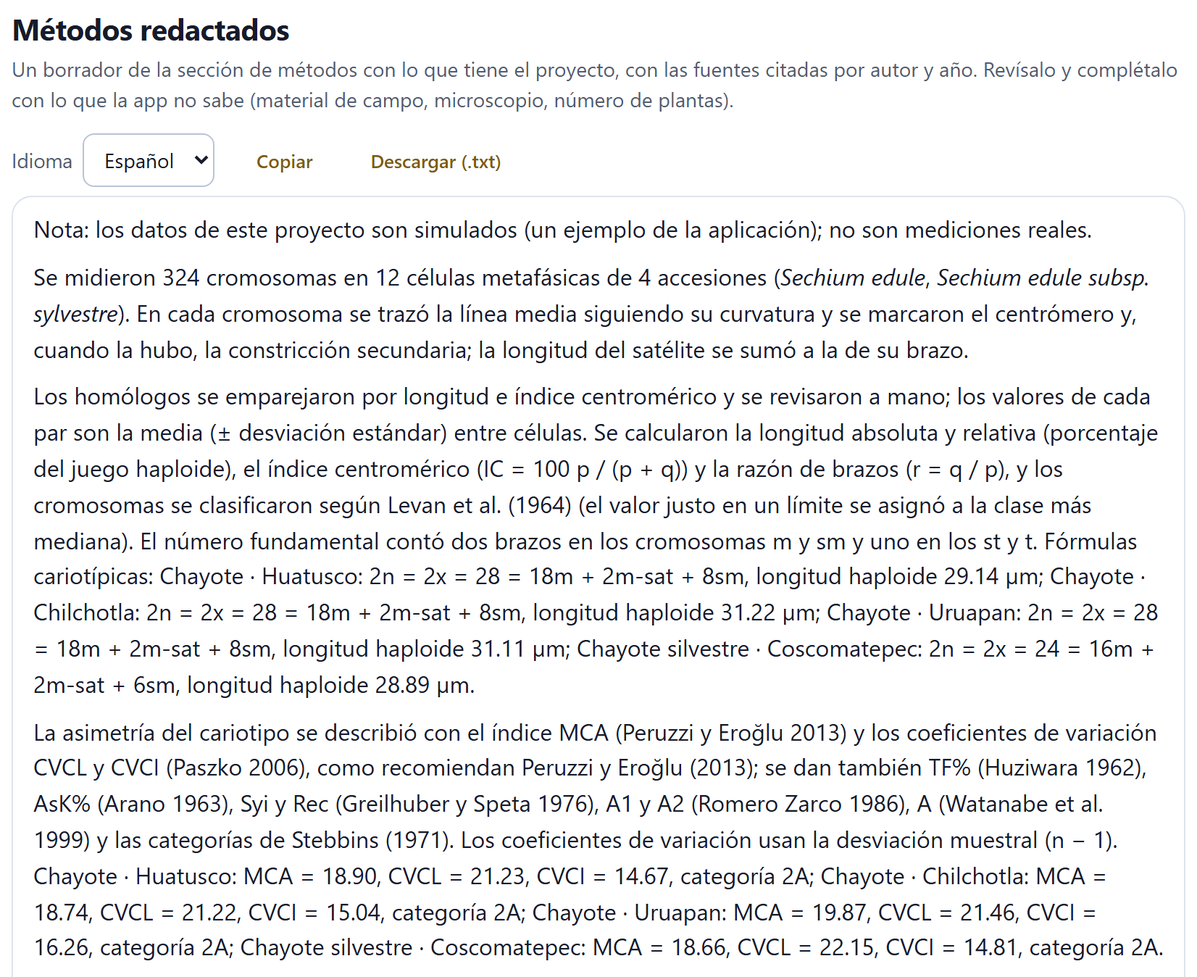
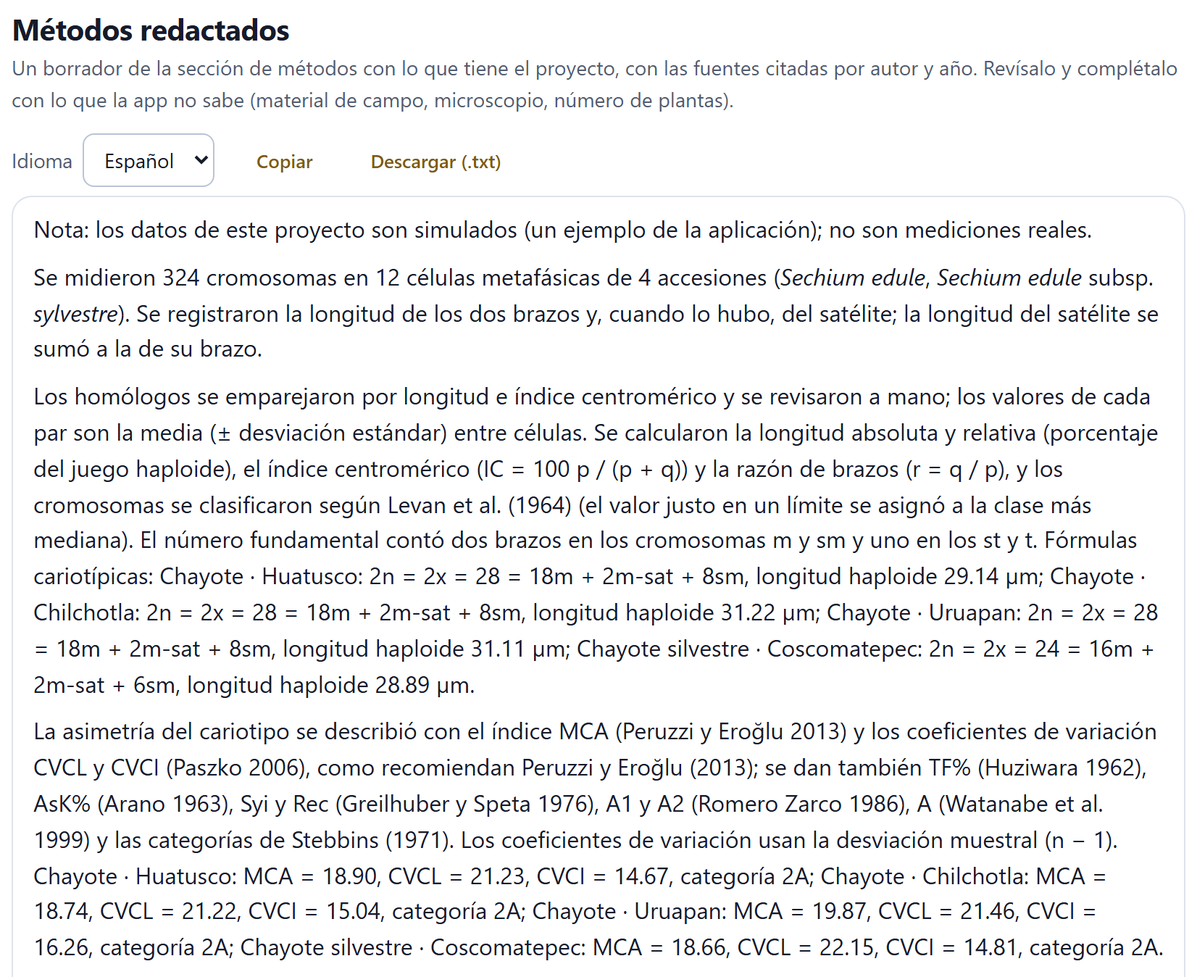
Manual: capítulos 9 y 10 y apéndices al día con la app corregida (46d3cd0)
Capturas retomadas (borde ámbar punteado, hoja de práctica, ayuda de Figuras,
cariograma con su título, métodos, tablas) y una nueva con las tablas de la serie
poliploide; textos de «Filas incompletas», PalynoPro, CSV con taxón y unidad y
avisos nuevos en los apéndices.

diff --git a/manual/es/11-apendices.html b/manual/es/11-apendices.html
@@ -44,9 +44,9 @@
     <tbody>
       <tr><td><b>Proyecto</b></td><td><span class="ui">Abrir un proyecto</span> (portada, Bloque 2, <code>Ctrl + O</code>) · <code>.json</code></td><td>Un archivo escrito por la app, con <code>"app": "CytogeneticsPro"</code>; cualquier otro JSON se rechaza. Reemplaza el proyecto abierto y recalcula todo.</td></tr>
       <tr><td><b>Imágenes</b></td><td>Bloque 2 · <code>.png</code>, <code>.jpg</code>, <code>.jpeg</code></td><td>Varias a la vez; cada imagen es una célula nueva de la accesión elegida (o de una nueva). Avisa si una pesa más de 25 MB. Se guardan dentro del proyecto.</td></tr>
-      <tr><td><b>Medidas</b></td><td>Bloque 2, <span class="ui">Pegar medidas</span> · texto pegado</td><td>Una fila por cromosoma, en micras; columnas por nombre o por número (abajo).</td></tr>
+      <tr><td><b>Medidas</b></td><td>Bloque 2, <span class="ui">Pegar medidas</span> · texto pegado</td><td>Una fila por cromosoma, en micras; columnas por nombre o por número (abajo). El CSV de mediciones que escribe el propio bloque vuelve a entrar completo, con su taxón y su unidad.</td></tr>
       <tr><td><b>Tablas de registro</b></td><td>Bloques 5 a 8, <span class="ui">Importar CSV</span> o pegar sobre la tabla</td><td>Un CSV con encabezados: cada encabezado se busca entre las claves, los nombres en español y en inglés y los alias de las columnas, sin distinguir acentos, mayúsculas ni signos. Un bloque copiado de una hoja de cálculo se pega sobre la celda activa y añade las filas que falten.</td></tr>
-      <tr><td><b>Fertilidad del polen</b></td><td>Bloque 5 · <code>.csv</code></td><td>El CSV de la app de palinología de la suite, con las columnas <code>landrace_code</code>, <code>n_granos_completos</code> y <code>pct_atipico</code>; los inviables se calculan como n × % / 100, redondeado.</td></tr>
+      <tr><td><b>Fertilidad del polen</b></td><td>Bloque 5 · <code>.csv</code></td><td>El CSV de PalynoPro, la app de palinología de la suite, con las columnas <code>landrace_code</code>, <code>n_granos_completos</code> y <code>pct_atipico</code>; los inviables se calculan como n × % / 100, redondeado.</td></tr>
       <tr><td><b>Histograma del citómetro</b></td><td>Bloque 6 · <code>.csv</code>, <code>.tsv</code>, <code>.txt</code></td><td>Dos columnas (canal, número de núcleos) o una columna de valores de cada evento, que la app agrupa en 512 clases; con encabezado o sin él.</td></tr>
       <tr><td><b>Árbol</b></td><td>Bloque 8 · <code>.nwk</code>, <code>.newick</code>, <code>.tre</code>, <code>.tree</code>, <code>.txt</code>, o pegado</td><td>Newick, con nombres entre apóstrofos y longitudes de rama (que se ignoran en la parsimonia); los comentarios entre corchetes se quitan. De un archivo NEXUS toma el primer árbol del bloque <code>TREES</code>. Las puntas se emparejan por nombre con las accesiones y los taxones.</td></tr>
       <tr><td><b>Contorno del mapa</b></td><td>Bloque 8 · <code>.geojson</code>, <code>.json</code></td><td>Un GeoJSON de tipo <code>FeatureCollection</code>, <code>Feature</code>, <code>Polygon</code>, <code>MultiPolygon</code>, <code>LineString</code>, <code>MultiLineString</code> o <code>GeometryCollection</code>, en longitud y latitud.</td></tr>
@@ -65,16 +65,19 @@
   <table class="compacta">
     <thead><tr><th style="width:1.4in">Columna</th><th>Encabezados que la nombran</th></tr></thead>
     <tbody>
-      <tr><td>Accesión</td><td>acc, accesión, accession, muestra, sample, población, population, taxón, taxon</td></tr>
+      <tr><td>Accesión</td><td>acc, accesión, accession, muestra, sample, población, population</td></tr>
+      <tr><td>Taxón</td><td>taxón, taxon, especie, species</td></tr>
       <tr><td>Célula</td><td>cél…, cell, placa, plate, metafase, metaphase</td></tr>
       <tr><td>Cromosoma</td><td>crom…, chrom…, núm…, no., #, id</td></tr>
       <tr><td>Brazo corto (p)</td><td>p, s, corto, short, brazo corto, short arm</td></tr>
       <tr><td>Brazo largo (q)</td><td>q, l, largo, long, brazo largo, long arm</td></tr>
       <tr><td>Satélite</td><td>satélite, satellite, sat</td></tr>
       <tr><td>Brazo del satélite</td><td>brazo…sat, sat…brazo o sat…arm, arm, brazo</td></tr>
+      <tr><td>Unidad</td><td>unidad, unit</td></tr>
     </tbody>
   </table>
-  <p>Sin encabezado, las columnas se leen por su número: 2 columnas, <b>p q</b> (una célula nueva); 3, <b>cromosoma p q</b>; 4, <b>célula cromosoma p q</b>; 5 a 7, <b>accesión célula cromosoma p q [satélite] [brazo]</b>. Una fila sin un número válido para p (≥ 0) y para q (&gt; 0) se salta, y el mensaje dice cuáles. Un satélite va en el brazo q si la columna del brazo dice q, l, largo o long; si no, en el p. Las accesiones que no existen se crean con el nombre que trae la columna.</p>
+  <p>Sin encabezado, las columnas se leen por su número: 2 columnas, <b>p q</b> (una célula nueva); 3, <b>cromosoma p q</b>; 4, <b>célula cromosoma p q</b>; 5 a 7, <b>accesión célula cromosoma p q [satélite] [brazo]</b>. Una fila sin un número válido para p (≥ 0) y para q (&gt; 0) se salta, y el mensaje dice cuáles. Un satélite va en el brazo q si la columna del brazo dice q, l, largo o long; si no, en el p. Las accesiones que no existen se crean con el nombre que trae la columna; si la tabla tiene taxón pero no accesión, se crea una accesión por taxón, y el taxón se anota en la accesión. Las filas sin accesión ni taxón van a la accesión elegida, y sólo si hace falta se crea una nueva: pegar una tabla que nombra sus accesiones no deja una «Accesión 1» vacía. Una célula cuya columna de unidad dice <i>px</i> (una célula sin calibrar exportada antes) se queda en píxeles, y el mensaje lo avisa: «Una célula viene en píxeles (sin calibrar).».</p>
+  <p>Así, el archivo <code>mediciones.csv</code> que escribe el Bloque 2 (accesión, taxón, célula, cromosoma, p, q, satélite, brazo del satélite, unidad, origen) se puede pegar de vuelta sin perder nada; la columna <i>origen</i> se ignora.</p>
   <pre class="archivo">accesión;célula;cromosoma;p;q;satélite;brazo
 Huatusco;C1;1;1,42;1,66;0,38;p
 Huatusco;C1;2;1,35;1,52;;
@@ -89,7 +92,7 @@ Huatusco;C1;3;0,98;1,95;;</pre>
       <tr><td><span class="chip k2">2</span></td><td><code>&lt;accesión&gt;_&lt;célula&gt;_anotada.png</code></td><td>La imagen con las marcas de conteo y los trazos.</td></tr>
       <tr><td><span class="chip k3">3</span></td><td><code>cariotipo_&lt;accesión&gt;.csv</code> · <code>.tsv</code> · <code>cariotipos.csv</code></td><td>El cariotipo de una accesión o de todas, un renglón por par.</td></tr>
       <tr><td><span class="chip k4">4</span></td><td><code>indices_asimetria.csv</code> · <code>.tsv</code></td><td>Los índices de todas las accesiones, con sus desviaciones si se calcularon célula por célula.</td></tr>
-      <tr><td><span class="chip k5">5</span></td><td><code>configuraciones_</code>, <code>fases_</code>, <code>tetradas_</code>, <code>polen_&lt;accesión&gt;.csv</code> · <code>polen_&lt;accesión&gt;_polenapp.csv</code></td><td>Las tablas de registro de la meiosis; la última, el polen con las columnas que lee la app de palinología.</td></tr>
+      <tr><td><span class="chip k5">5</span></td><td><code>configuraciones_</code>, <code>fases_</code>, <code>tetradas_</code>, <code>polen_&lt;accesión&gt;.csv</code> · <code>polen_&lt;accesión&gt;_palynopro.csv</code></td><td>Las tablas de registro de la meiosis; la última, el polen con las columnas de PalynoPro.</td></tr>
       <tr><td><span class="chip k6">6</span></td><td><code>conteos_</code>, <code>citometria_&lt;accesión&gt;.csv</code> · <code>prueba_allium.csv</code></td><td>Los conteos, las corridas del citómetro y la prueba de <i>Allium</i>.</td></tr>
       <tr><td><span class="chip k7">7</span></td><td><code>sondas.csv</code> · <code>senales_&lt;accesión&gt;.csv</code></td><td>Las sondas y bandas, y las señales de una accesión.</td></tr>
       <tr><td><span class="chip k8">8</span></td><td><code>otros_taxones.csv</code> · <code>dendrograma_upgma.nwk</code> o <code>_ward.nwk</code></td><td>Los taxones añadidos a mano y el dendrograma en Newick.</td></tr>
@@ -150,7 +153,7 @@ Huatusco;C1;3;0,98;1,95;;</pre>
     <tbody>
       <tr><td style="width:2.1in"><b>Número cromosómico</b></td><td>La moda de las células contadas; con más de una moda, la app pide contar más células. Si la moda no es múltiplo de x, avisa: aneuploidía, cromosomas B o disploidía.</td></tr>
       <tr><td><b>Citometría de flujo</b></td><td>2C = (canal G1 de la muestra / canal G1 del estándar) × 2C del estándar; 1C = 2C / 2; 1Cx = 2C / nivel de ploidía; 1 pg = 978 Mpb.</td></tr>
-      <tr><td><b>Calidad de los picos</b></td><td>Avisa si algún pico tiene un CV mayor de 5&nbsp;% o si la razón muestra / estándar está entre 0.85 y 1.18 (los picos se enciman).</td></tr>
+      <tr><td><b>Calidad de los picos</b></td><td>Avisa si algún pico tiene un CV mayor de 5&nbsp;%, si la razón muestra / estándar está entre 0.85 y 1.18 (los picos se enciman) o si es mayor de 3 o menor de 1/3 (la respuesta del citómetro puede dejar de ser lineal).</td></tr>
       <tr><td><b>Prueba de <i>Allium</i></b></td><td>Cada tratamiento se compara con el testigo, con la corrección de Holm; un índice mitótico menor que la mitad del testigo es una señal fuerte de citotoxicidad.</td></tr>
     </tbody>
   </table>
@@ -158,13 +161,13 @@ Huatusco;C1;3;0,98;1,95;;</pre>
   <h3>B.5 · Bandeo y FISH (Bloque 7)</h3>
   <ul>
     <li><b>Posición en el brazo</b>, del centrómero (0) al telómero (1): proximal &lt; 1/3; intersticial de 1/3 a 0.8; terminal &gt; 0.8.</li>
-    <li><b>Sitios por juego.</b> Un sitio en los dos homólogos cuenta uno; en uno solo, medio (y se cuenta como heteromorfismo).</li>
+    <li><b>Sitios por juego.</b> Un sitio en los dos homólogos cuenta uno; en uno solo, medio (y se cuenta como heteromorfismo), con el mismo criterio en el patrón de la accesión y sus regiones, en la tabla de todas las accesiones y en la matriz de la comparación.</li>
   </ul>
 
   <h3>B.6 · Comparación entre taxones (Bloque 8)</h3>
   <ul>
     <li><b>Mínimos.</b> Al menos una variable y tres accesiones o taxones con datos; el análisis de componentes necesita al menos dos variables que varíen.</li>
-    <li><b>Datos faltantes.</b> La distancia de Gower y la euclidiana usan, en cada pareja, las variables que ambas tienen (la euclidiana se reescala al total); si una pareja no comparte ninguna, el análisis se detiene. Los componentes ponen las celdas vacías en la media.</li>
+    <li><b>Filas incompletas.</b> Por omisión, <span class="ui">Fuera (sólo filas con todas las variables)</span>: al agrupamiento y a los componentes sólo entran las filas con todas las variables elegidas; las demás siguen en la matriz, en el árbol de los números y en el mapa, y la app dice cuáles quedan fuera y qué les falta. <span class="ui">Todas, con las variables que tienen todas</span> usa sólo las variables comunes. <span class="ui">Todas; cada pareja con las variables que comparte</span> calcula la distancia de Gower o la euclidiana (reescalada al total) con lo que comparte cada pareja; avisa si alguna comparte la mitad de las variables o menos, y se detiene si una no comparte ninguna. Los componentes ponen las celdas vacías en la media.</li>
     <li><b>Ward</b> trabaja con las distancias al cuadrado y da las alturas en la escala de la distancia.</li>
     <li><b>Evolución del número.</b> Parsimonia de Sankoff con los costos de +1, −1, ×2 y ×1.5 que elijas (1, 1, 1 y 1.5 al abrir); un 2n impar no entra al análisis; hacen falta al menos dos puntas con número, y las demás se tratan como desconocidas.</li>
   </ul>
@@ -243,7 +246,8 @@ Huatusco;C1;3;0,98;1,95;;</pre>
       <tr><td>«Ninguna fila tenía dos números válidos para p y q.»</td><td>Las columnas no se reconocieron o tienen texto; revisa el encabezado o el separador (apéndice A.1).</td></tr>
       <tr><td>«El archivo no tenía columnas reconocibles.»</td><td>Ningún encabezado del CSV coincide con una columna de la tabla; usa los nombres que trae la tabla al exportarla.</td></tr>
       <tr><td colspan="2"><b>Medición y cariotipo (Bloques 2 y 3)</b></td></tr>
-      <tr><td>«… tiene … célula(s) con imagen sin calibrar: sus medidas están en píxeles.»</td><td>Calibra con la barra de escala para mezclarlas con las demás.</td></tr>
+      <tr><td>«… tiene una célula sin calibrar: sus medidas están en píxeles.» (o «… células sin calibrar…»)</td><td>Calibra con la barra de escala (o captura las medidas en micras) para mezclarlas con las demás.</td></tr>
+      <tr><td>«Una célula viene en píxeles (sin calibrar).» (al pegar medidas)</td><td>La columna de unidad decía px; la célula se queda en píxeles hasta que la calibres o captures sus medidas en micras.</td></tr>
       <tr><td>«En … no todas las células tienen el mismo número de cromosomas medidos (moda …).»</td><td>Falta o sobra algún cromosoma en alguna célula; el Bloque 3 agrupa lo que haya.</td></tr>
       <tr><td>«Esta accesión mezcla células calibradas (µm) y sin calibrar (píxeles).»</td><td>Las longitudes relativas valen; las absolutas no. Calibra todas en el Bloque 2.</td></tr>
       <tr><td>«Las células no tienen el mismo número de cromosomas (…).»</td><td>Revisa el emparejamiento de las células incompletas.</td></tr>
@@ -254,16 +258,20 @@ Huatusco;C1;3;0,98;1,95;;</pre>
       <tr><td>«Escribe el número básico x de la accesión para plantear las hipótesis.»</td><td>Sin x no hay fórmulas genómicas que probar.</td></tr>
       <tr><td>«La fórmula … con x = … da 2n = …, pero las células tienen ….»</td><td>La fórmula no corresponde al número de las células; corrígela.</td></tr>
       <tr><td>«Ninguna hipótesis se ajusta (la mejor: …).» · «Más de una hipótesis se ajusta (…): hacen falta más células para decidir.»</td><td>Prueba otra fórmula o registra más células.</td></tr>
-      <tr><td>«El archivo no tiene las columnas de PolenApp (landrace_code, n_granos_completos, pct_atipico).»</td><td>El CSV no viene de la app de palinología; captura los granos en la tabla.</td></tr>
+      <tr><td>«El archivo no tiene las columnas de PalynoPro (landrace_code, n_granos_completos, pct_atipico).»</td><td>El CSV no viene de PalynoPro; captura los granos en la tabla.</td></tr>
       <tr><td>«Hay más de una moda: cuenta más células antes de decidir el número.»</td><td>Dos o más números empatan; cuenta más.</td></tr>
       <tr><td>«El número modal no es múltiplo de x = …»</td><td>Aneuploidía, cromosomas B o un número básico distinto.</td></tr>
       <tr><td>«…: algún pico tiene un CV mayor de 5 %.»</td><td>Repite la preparación: núcleos dañados o restos.</td></tr>
       <tr><td>«…: la muestra y el patrón casi coinciden (razón cercana a 1).»</td><td>Elige un patrón con un contenido más distinto.</td></tr>
+      <tr><td>«…: la muestra y el patrón difieren más de tres veces en su contenido de ADN.»</td><td>Tan lejos, la respuesta del citómetro puede dejar de ser lineal: elige un patrón de tamaño más cercano al de la muestra, sin que los picos se encimen.</td></tr>
       <tr><td>«No se encontraron números en el archivo.»</td><td>El CSV del citómetro no tiene columnas numéricas que la app reconozca (apéndice A.1).</td></tr>
       <tr><td>«Las compuertas elegidas están vacías.»</td><td>Ajusta los límites de las compuertas del histograma.</td></tr>
       <tr><td colspan="2"><b>Comparación (Bloque 8)</b></td></tr>
-      <tr><td>«Hacen falta al menos tres accesiones o taxones con datos para comparar.»</td><td>Añade taxones en <span class="ui">Otros taxones</span> o elige variables que tengan más filas.</td></tr>
-      <tr><td>«Estas parejas no comparten ninguna variable: …»</td><td>Quita variables o completa los datos.</td></tr>
+      <tr><td>«Sólo entran al agrupamiento y al ACP las filas con todas las variables elegidas. Quedan fuera … filas (…), a las que les falta …»</td><td>Es el ajuste de inicio de <span class="ui">Filas incompletas</span>. Para incluirlas, elige sólo las variables que tienen o cambia ese menú.</td></tr>
+      <tr><td>«Sólo se usan las variables que tienen todas las filas (…); quedan fuera ….» · «Ninguna de las variables elegidas está en todas las filas.»</td><td>Con <span class="ui">Todas, con las variables que tienen todas</span>; en el segundo caso, elige otras variables u otra opción.</td></tr>
+      <tr><td>«Algunas parejas comparten pocas variables: «…» y «…» sólo tienen en común … (… de …), y su distancia, …, sale sólo de esas.»</td><td>Con <span class="ui">Todas; cada pareja con las variables que comparte</span>: dos cariotipos distintos pueden quedar a distancia 0; lee el dendrograma con cuidado o cambia <span class="ui">Filas incompletas</span>.</td></tr>
+      <tr><td>«Hacen falta al menos tres accesiones o taxones con datos para comparar.»</td><td>Añade taxones en <span class="ui">Otros taxones</span>, elige variables que tengan más filas o cambia <span class="ui">Filas incompletas</span>.</td></tr>
+      <tr><td>«Estas parejas no comparten ninguna variable: …»</td><td>Con la comparación por parejas: quita variables o completa los datos.</td></tr>
       <tr><td>«Falta un paréntesis de cierre en el Newick.» · «Sobra texto al final del Newick.» · «El Newick está vacío.»</td><td>El árbol está mal escrito; revisa paréntesis y el punto y coma final.</td></tr>
       <tr><td>«Hacen falta al menos dos puntas con número.»</td><td>Los nombres de las puntas no coinciden con las accesiones o taxones, o les falta 2n; escríbelo en <span class="ui">Números de las puntas</span>.</td></tr>
       <tr><td>«…: 2n = … es impar; no tiene un número haploide entero y no entra al análisis.»</td><td>Esa punta se trata como desconocida.</td></tr>

diff --git a/manual/es/10-bloque10.html b/manual/es/10-bloque10.html
@@ -107,7 +107,7 @@
   <p>El cariograma es la figura clásica de un artículo de citogenética: los cromosomas de una célula recortados de la fotografía, enderezados y ordenados por pares. La app lo arma sola con la <b>primera célula de la accesión que tenga imagen y todos sus cromosomas trazados, con su centrómero, y agrupados</b> en el Bloque 3. Endereza cada cromosoma a lo largo de su trazo, pone los dos homólogos juntos, ordena los pares como el cariotipo, alinea los centrómeros en una línea punteada y escribe debajo el número y el tipo de cada par. Los pares van en renglones de siete (de ocho, si hay más de doce), con una barra de escala al final.</p>
   <figure class="w80">
     <div class="marco"><img src="../img/b10-cariograma.png" alt="El cariograma del maíz de ejemplo: diez pares de cromosomas recortados y enderezados en dos renglones, con su número, su tipo y una barra de 5 micras"></div>
-    <figcaption><b>Figura 10.3.</b> El cariograma de la célula 1 del maíz de ejemplo: diez pares en dos renglones, con los nudos de heterocromatina visibles como bandas oscuras, el satélite del par 6 (sm-sat) y una barra de 5 µm. El título, «Maíz criollo · Texcoco · Célula 1 (imagen) · 2n = 2x = 20 = 8m + 10sm + 2sm-sat», queda cortado a la derecha en esta versión de la app.</figcaption>
+    <figcaption><b>Figura 10.3.</b> El cariograma de la célula 1 del maíz de ejemplo: diez pares en dos renglones, con los nudos de heterocromatina visibles como bandas oscuras, el satélite del par 6 (sm-sat) y una barra de 5 µm. Arriba, el título: «Maíz criollo · Texcoco · Célula 1 (imagen) · 2n = 2x = 20 = 8m + 10sm + 2sm-sat».</figcaption>
   </figure>
   <p>Si ninguna célula de una accesión cumple las condiciones —no tiene imagen, o le falta el trazo o el centrómero a algún cromosoma—, esa accesión no tiene cariograma; el idiograma, que sólo necesita las medidas, sí aparece.</p>
   <h3>El estudio de figuras</h3>
@@ -116,7 +116,7 @@
     <div class="marco"><img src="../img/b10-estudio.png" alt="El estudio de figuras a pantalla completa con el idiograma de Huatusco en el centro y los controles a la derecha"></div>
     <figcaption><b>Figura 10.4.</b> El idiograma de Huatusco en el estudio. Debajo, su tamaño final: 85 × 41.7 mm a 600 puntos por pulgada, 2008 × 986 píxeles; la guía punteada marca el ancho de columna y media (114 mm). A la derecha, los ajustes y la edición fina.</figcaption>
   </figure>
-  <p>La barra de arriba deshace y rehace, acerca y aleja la figura (<span class="ui">Ajustar</span> la deja del tamaño de la pantalla), aplica <span class="ui">Preajustes</span> de un clic y guarda los propios, y con <span class="ui">Exportar</span> la descarga al ancho de una o dos columnas de revista o a uno libre, con la resolución que pidas, en PNG, SVG, PDF vectorial o TIFF. A la derecha, <span class="ui">Buscar un control…</span> encuentra cualquier ajuste por su nombre; <span class="ui">Ajustes de la figura</span> reúne los controles de la tarjeta donde vive la figura, y <span class="ui">Edición fina de esta figura</span> es el editor ✎ dentro del estudio. En la figura, un clic lleva a los controles de esa parte y un doble clic en un texto deja cambiarlo. <span class="ui">Cerrar estudio</span> vuelve a la app.</p>
+  <p>La barra de arriba deshace y rehace, acerca y aleja la figura (<span class="ui">Ajustar</span> la deja del tamaño de la pantalla), aplica <span class="ui">Preajustes</span> de un clic y guarda los propios, y con <span class="ui">Exportar</span> la descarga al ancho de una o dos columnas de revista o a uno libre, con la resolución que pidas, en PNG, SVG, PDF vectorial o TIFF. A la derecha, <span class="ui">Buscar un control…</span> encuentra cualquier ajuste por su nombre; <span class="ui">Ajustes de la figura</span> reúne los controles propios de la figura en su bloque (en los idiogramas del Bloque 10, que no los tienen, dice «Esta figura no trae opciones propias: usa las del estudio (paleta, texto, tamaño) o el editor de la app si lo tiene.»), y <span class="ui">Edición fina de esta figura</span> es el editor ✎ dentro del estudio. En la figura, un clic lleva a los controles de esa parte y un doble clic en un texto deja cambiarlo. <span class="ui">Cerrar estudio</span> vuelve a la app.</p>
   <h3>El editor ✎</h3>
   <p>El botón ✎ abre, sin salir de la página, un panel flotante que trabaja sobre esa figura. Sus pestañas son <span class="ui">General</span>, <span class="ui">Ejes y rejilla</span>, <span class="ui">Series</span>, <span class="ui">Leyenda</span>, <span class="ui">Textos</span> y <span class="ui">Anotaciones</span>.</p>
   <figure class="w60">
@@ -131,10 +131,14 @@
 
   <!-- 10.4 -->
   <h2 id="s10-4"><span class="num">10.4</span>Tablas</h2>
-  <p>Todas las tablas del proyecto, con su número de filas y de columnas, y dos botones: <span class="ui">CSV</span>, separado por comas, y <span class="ui">TSV</span>, separado por tabuladores. Las dos usan el punto decimal y se guardan en UTF-8 con marca de orden de bytes, para que una hoja de cálculo lea bien los acentos y la µ; se abren igual en una hoja de cálculo o en R.</p>
+  <p>Todas las tablas del proyecto, con su número de filas y de columnas, y dos botones: <span class="ui">CSV</span>, separado por comas, y <span class="ui">TSV</span>, separado por tabuladores. Las dos usan el punto decimal y se guardan en UTF-8 con marca de orden de bytes, para que una hoja de cálculo lea bien los acentos y la µ; la ayuda de la tarjeta lo resume: «listos para una hoja de cálculo o un programa de estadística».</p>
   <figure class="w80">
     <div class="marco"><img src="../img/b10-tablas.png" alt="La tarjeta Tablas con las ocho tablas del chayote, sus filas y columnas y los botones CSV y TSV"></div>
-    <figcaption><b>Figura 10.6.</b> Las ocho tablas del chayote de ejemplo. Las mediciones son 324 filas, una por cromosoma medido; el cariotipo, 54, una por par y accesión (14 + 14 + 14 + 12).</figcaption>
+    <figcaption><b>Figura 10.6.</b> Las ocho tablas del chayote de ejemplo. Las mediciones son 324 filas, una por cromosoma medido; el cariotipo, 54, una por par y accesión (14 + 14 + 14 + 12). La matriz de comparación tiene los 11 taxones, pero la de distancias sólo las 4 accesiones que tienen todas las variables (sección 8.2, menú <span class="ui">Filas incompletas</span>).</figcaption>
+  </figure>
+  <figure class="w80">
+    <div class="marco"><img src="../img/b10-tablas-poly.png" alt="La tarjeta Tablas con las ocho tablas de la serie poliploide: meiosis, tétradas, polen, conteos, citometría y comparación"></div>
+    <figcaption><b>Figura 10.7.</b> Las tablas de la serie poliploide de ejemplo, que tiene meiosis, polen y citometría: 150 células con sus configuraciones, 36 renglones de anormalidades por fase, 6 de tétradas, 9 plantas de polen, 45 conteos de 2n y 9 corridas del citómetro.</figcaption>
   </figure>
   <table class="compacta">
     <caption><b>Tabla 10.3.</b> Las tablas que puede tener un proyecto y su archivo</caption>
@@ -144,10 +148,16 @@
       <tr><td>Mediciones por cromosoma</td><td><code>mediciones</code></td><td>accesión, taxón, célula, cromosoma, p, q, satélite, brazo del satélite, unidad (µm o px) y origen (trazo o a mano)</td></tr>
       <tr><td>Cariotipo (pares)</td><td><code>cariotipo</code></td><td>par, células, p, q, longitud, longitud relativa e índice centromérico con sus desviaciones, razón de brazos, clase, satélite y unidad</td></tr>
       <tr><td>Índices de asimetría</td><td><code>asimetria</code></td><td>2n, THL y los doce índices, la categoría de Stebbins y el modo de cálculo</td></tr>
+      <tr><td>Configuraciones meióticas por célula</td><td><code>meiosis_configuraciones</code></td><td>accesión, planta, célula y el número de cada configuración (I, II en varilla y en anillo, III, IV, V, VI)</td></tr>
+      <tr><td>Anormalidades por fase</td><td><code>meiosis_anormalidades</code></td><td>accesión, planta, fase, normales y cada anormalidad</td></tr>
+      <tr><td>Tétradas</td><td><code>tetradas</code></td><td>accesión, planta, normales, con micronúcleos, díadas, tríadas y políadas</td></tr>
+      <tr><td>Viabilidad del polen</td><td><code>polen</code></td><td>accesión, planta, viables e inviables</td></tr>
       <tr><td>Conteos de 2n</td><td><code>conteos</code></td><td>accesión, célula y 2n</td></tr>
+      <tr><td>Citometría de flujo</td><td><code>citometria</code></td><td>accesión, muestra, patrón, picos y CV del patrón y la muestra, 2C, 1C y 1Cx en pg y 2C en Mpb</td></tr>
+      <tr><td>Prueba de <i>Allium</i></td><td><code>mitosis_allium</code></td><td>tratamiento, repetición, células en cada fase y cada aberración</td></tr>
       <tr><td>Bandas y señales</td><td><code>senales</code></td><td>par, homólogo, brazo, posición, tamaño, sonda, célula y región</td></tr>
       <tr><td>Matriz de comparación</td><td><code>matriz_comparacion</code></td><td>las variables del Bloque 8 para cada accesión o taxón, con su origen</td></tr>
-      <tr><td>Matriz de distancias</td><td><code>distancias</code></td><td>la matriz cuadrada de la comparación</td></tr>
+      <tr><td>Matriz de distancias</td><td><code>distancias</code></td><td>la matriz cuadrada de las filas que entraron al agrupamiento</td></tr>
     </tbody>
   </table>
   <p>Una tabla aparece sólo si el proyecto tiene sus datos: con el maíz de ejemplo, que no tiene comparación, son siete. Cada bloque tiene también sus propias descargas (el cariotipo en el Bloque 3, los índices en el 4, las tablas de conteo de los Bloques 5 a 8); las de aquí son las mismas, juntas.</p>
@@ -158,9 +168,10 @@
   <p>El menú <span class="ui">Idioma</span> elige <span class="ui">Español</span> o <span class="ui">English</span>; al abrir sigue el idioma de la interfaz, y una vez que lo cambias se queda como lo dejaste. <span class="ui">Copiar</span> deja el texto en el portapapeles («Métodos copiados.») y <span class="ui">Descargar (.txt)</span> lo guarda como <code>metodos.txt</code> o <code>methods.txt</code>.</p>
   <figure class="w80">
     <div class="marco"><img src="../img/b10-metodos.png" alt="La tarjeta de los métodos redactados con sus controles y los primeros párrafos del chayote"></div>
-    <figcaption><b>Figura 10.7.</b> El comienzo de los métodos del chayote de ejemplo: la nota de datos simulados, la medición, el cariotipo con las fórmulas y longitudes haploides de las cuatro accesiones, y la asimetría con MCA, CVCL, CVCI y la categoría de Stebbins de cada una.</figcaption>
+    <figcaption><b>Figura 10.8.</b> El comienzo de los métodos del chayote de ejemplo: la nota de datos simulados, la medición (sin imágenes: «Se registraron la longitud de los dos brazos y, cuando lo hubo, del satélite…»), el cariotipo con las fórmulas y longitudes haploides de las cuatro accesiones, y la asimetría con MCA, CVCL, CVCI y la categoría de Stebbins de cada una.</figcaption>
   </figure>
-  <p>Los párrafos salen de lo que hay en el proyecto, uno por tema, y sólo si hay datos: la medición (cuántos cromosomas, células y accesiones, y cómo se trazaron); el cariotipo (cómo se emparejaron los homólogos, qué se calculó, la clasificación con su convenio de límites, cómo se contó el número fundamental y las fórmulas); la asimetría (los índices recomendados, los demás y el tipo de desviación); el número cromosómico (la moda de las células contadas); la meiosis, la citometría y la prueba de <i>Allium</i>; las bandas y señales; la comparación (variables, distancia, agrupamiento, correlación cofenética, componentes y evolución del número), y un párrafo final con la versión de la app. Con el chayote son ocho párrafos y 21 referencias; por ejemplo, el de la comparación dice que la correlación cofenética fue r = 0.867, que los dos primeros componentes resumen 87.0&nbsp;% de la varianza y que el costo mínimo de la evolución del número fue 11, con n = 11 en la raíz.</p>
+  <p>Los párrafos salen de lo que hay en el proyecto, uno por tema, y sólo si hay datos: la medición (cuántos cromosomas, células y accesiones, y cómo se midieron); el cariotipo (cómo se emparejaron los homólogos, qué se calculó, la clasificación con su convenio de límites, cómo se contó el número fundamental y las fórmulas); la asimetría (los índices recomendados, los demás y el tipo de desviación); el número cromosómico (la moda de las células contadas); la meiosis, la citometría y la prueba de <i>Allium</i>; las bandas y señales; la comparación (variables, distancia, agrupamiento, correlación cofenética, componentes y evolución del número), y un párrafo final con la versión de la app. Con el chayote son ocho párrafos y 21 referencias. El de la comparación, con el ajuste de inicio de <span class="ui">Filas incompletas</span>, dice que se compararon 4 accesiones, añade «Sólo entraron las filas con todas las variables.», da la correlación cofenética r = 0.870 y un 93.0&nbsp;% de la varianza en los dos primeros componentes, y que el costo mínimo de la evolución del número fue 11, con n = 11 en la raíz. Si eliges comparar cada pareja con las variables que comparte, el párrafo lo dice: «En cada pareja se usaron las variables que ambas tienen.».</p>
+  <p>El párrafo de la medición cambia según de dónde salieron las medidas. Sin imágenes, como en el chayote, dice «Se registraron la longitud de los dos brazos y, cuando lo hubo, del satélite; la longitud del satélite se sumó a la de su brazo.». Con imágenes describe el trazo sobre las fotomicrografías, y si sólo algunas células las tienen lo aclara; en el maíz de ejemplo: «Se midieron 100 cromosomas en 5 células metafásicas de 1 accesión (<i>Zea mays</i>); una de ellas se midió sobre fotomicrografías calibradas con una barra de escala y las otras 4, a partir de medidas capturadas.». Los nombres científicos van en cursiva, con las palabras de rango en redonda: <i>Sechium edule</i> subsp. <i>sylvestre</i>.</p>
   <div class="caja importante">
     <div class="caja-t"><span class="ico">!</span>Es un borrador: revísalo siempre</div>
     <p>La app escribe <i>qué</i> se hizo con los datos que tiene, no lo que no sabe: de dónde vino el material, cuántas plantas se usaron, qué microscopio y qué cámara, el pretratamiento y la tinción. Tampoco sabe <i>por qué</i> elegiste una clasificación o un índice. Completa el texto con eso, quita lo que no vayas a informar y ajusta la redacción a la revista. Si el proyecto es un ejemplo, la primera línea lo advierte: bórrala sólo cuando los datos sean tuyos.</p>

diff --git a/manual/es/09-bloque9.html b/manual/es/09-bloque9.html
@@ -89,7 +89,7 @@
   <h2 id="s9-2"><span class="num">9.2</span>Ejercicio: arma el cariotipo</h2>
   <p class="lead">Una metafase simulada de un cariotipo inventado, con los cromosomas numerados, para emparejar, ordenar y clasificar a mano antes de pedir la calificación.</p>
   <p>El ejercicio dibuja la metafase con el mismo motor que hace las imágenes de los ejemplos: cromosomas teñidos con su centrómero, un núcleo en reposo en una esquina y una barra de 5 µm. Cada cromosoma lleva un número junto a él, y debajo, en <span class="ui">Recortes</span>, aparecen los mismos cromosomas <b>enderezados</b> a lo largo de su eje y a la misma escala que la imagen, cada uno con dos menús: <span class="ui">par</span> y <span class="ui">tipo</span> (m, sm, st o t). El menú <span class="ui">Pares</span> elige cuántos pares tiene el cariotipo —4, 5 (al abrir) o 6— y <span class="ui">Otra metafase</span> inventa uno nuevo.</p>
-  <figure class="w60">
+  <figure class="w50">
     <div class="marco"><img src="../img/b9-ejercicio.png" alt="La metafase simulada con diez cromosomas numerados y, debajo, sus diez recortes con los menús par y tipo"></div>
     <figcaption><b>Figura 9.3.</b> La metafase con la que abre el bloque: cinco pares, diez cromosomas en el orden en que se ven en la imagen. Los recortes conservan el tamaño relativo, y el centrómero se ve como la constricción de cada uno.</figcaption>
   </figure>
@@ -99,15 +99,15 @@
     <p>Al abrir el bloque, la app dibuja siempre la misma metafase (la de la semilla 20261007), para que un grupo entero pueda trabajar sobre la misma imagen y comparar respuestas. <span class="ui">Otra metafase</span> y el cambio del número de pares sortean una nueva cada vez. Las cifras de esta sección son las de la metafase de inicio.</p>
   </div>
   <h3>Cómo se califica</h3>
-  <p><span class="ui">Revisar</span> pone tres recuadros y una lista de observaciones, y marca cada recorte: con borde <b>verde</b> si el cromosoma quedó en su par, con el número de par correcto y con el tipo correcto; con borde <b>naranja</b> si el tipo está mal o si el cromosoma no quedó con su homólogo; sin color, si el par y el tipo están bien pero el número del par no.</p>
+  <p><span class="ui">Revisar</span> pone tres recuadros y una lista de observaciones, y marca cada recorte: con borde <b>verde</b> si el cromosoma quedó en su par, con el número de par correcto y con el tipo correcto; con borde <b>ámbar</b> si el tipo está mal o si el cromosoma no quedó con su homólogo, y con borde <b>ámbar punteado</b> si el par y el tipo están bien pero al par le toca otro número. Una línea bajo los botones lo recuerda: «Al revisar, el borde verde marca un recorte bien resuelto; el ámbar, un par o un tipo equivocado, y el ámbar punteado, un par bien formado al que le toca otro número.»</p>
   <ul>
     <li><span class="ui">Pares bien formados</span>: cuántos pares tienen a sus dos miembros, y sólo a ellos, con el mismo número.</li>
     <li><span class="ui">Pares bien numerados</span>: de los bien formados, cuántos llevan además el número que les toca por longitud («1 = el más largo»).</li>
     <li><span class="ui">Tipos correctos</span>: cuántos cromosomas, de todos, están bien clasificados.</li>
   </ul>
   <figure class="w50">
-    <div class="marco"><img src="../img/b9-revision.png" alt="Los recortes contestados, con bordes verdes y naranjas, los tres recuadros de la calificación y cuatro observaciones"></div>
-    <figcaption><b>Figura 9.4.</b> El ejercicio contestado con dos errores a propósito: los cromosomas 5 y 10 se dieron como sm y los pares 4 y 5 se numeraron al revés. Resultado: 5 / 5 pares bien formados, 3 / 5 bien numerados y 8 / 10 tipos correctos.</figcaption>
+    <div class="marco"><img src="../img/b9-revision.png" alt="Los recortes contestados, con bordes verdes, ámbar y ámbar punteados, los tres recuadros de la calificación y cuatro observaciones"></div>
+    <figcaption><b>Figura 9.4.</b> El ejercicio contestado con dos errores a propósito: los cromosomas 5 y 10 se dieron como sm y los pares 4 y 5 se numeraron al revés. Resultado: 5 / 5 pares bien formados, 3 / 5 bien numerados y 8 / 10 tipos correctos. El 5 y el 10 llevan borde ámbar (tipo equivocado); el 6 y el 9, que forman bien el par 5 pero se numeraron 4, ámbar punteado.</figcaption>
   </figure>
   <p>Las observaciones dicen por qué. Un tipo equivocado da un aviso con la razón de brazos verdadera: «El 5 es subtelocéntrico (st): su razón de brazos es r = 4.07, no sm.» Dos homólogos separados dan «Los cromosomas … son homólogos (el par …, de … µm).»; un par bien formado con el número equivocado, «Los cromosomas 5 y 10 forman bien un par, pero por su longitud es el par 4.» Con todo correcto, la app escribe «¡Cariotipo correcto! Puedes ver la solución con las medidas.».</p>
   <p><span class="ui">Ver la solución</span> ordena los recortes por pares y escribe, bajo cada uno, su número, su tipo, su longitud media y su razón de brazos, y al final la fórmula cariotípica.</p>
@@ -127,7 +127,7 @@
   <p>El banco tiene 33 preguntas: 28 fijas —4 de cariotipo, 3 de asimetría, 6 de meiosis, 6 de ploidía y genoma, 4 de bandeo y FISH, 3 de técnicas y 2 de comparación— y 5 que se generan con números nuevos cada vez: el índice centromérico de un cromosoma con brazos dados, la clase de Levan de una razón de brazos, el 2C de una muestra a partir de los canales del citómetro y de un estándar, el nivel de ploidía de un 2n con un número básico dado, y las combinaciones de cromosomas paternos y maternos que puede recibir un gameto. Las opciones se barajan en cada tanda.</p>
   <figure class="w70">
     <div class="marco"><img src="../img/b9-autoevaluacion.png" alt="Los temas, el menú de preguntas y las tres primeras preguntas calificadas, con la opción correcta resaltada en verde y su explicación"></div>
-    <figcaption><b>Figura 9.6.</b> Las tres primeras de una tanda de cinco preguntas de todos los temas, contestada siempre con la primera opción y calificada. La 1 está bien y se enmarca en verde; la 2 y la 3, mal, en naranja, con la opción correcta resaltada. En las cinco hubo 3 aciertos: el recuadro <span class="ui">Aciertos</span> dice 3 / 5, 60 %.</figcaption>
+    <figcaption><b>Figura 9.6.</b> Las tres primeras de una tanda de cinco preguntas de todos los temas, contestada siempre con la primera opción y calificada. La 1 está bien y se enmarca en verde; la 2 y la 3, mal, en ámbar, con la opción correcta resaltada. En las cinco hubo 3 aciertos: el recuadro <span class="ui">Aciertos</span> dice 3 / 5, 60 %.</figcaption>
   </figure>
   <p><span class="ui">Calificar</span> marca cada pregunta, resalta la opción correcta y añade su explicación, que empieza con «Correcto.», «No.» o «Sin respuesta.». El recuadro <span class="ui">Aciertos</span> da el total y el porcentaje, y se pinta de advertencia por debajo del 70&nbsp;%. Puedes cambiar respuestas y calificar de nuevo; las preguntas no cambian hasta que pidas otras.</p>
 

diff --git a/manual/herramientas/recetas/b10-tablas-poly.js b/manual/herramientas/recetas/b10-tablas-poly.js
@@ -1,0 +1,8 @@
+// ventana 1400x1000
+/* Capítulo 10: la tarjeta «Tablas» con la serie poliploide: las tablas de la meiosis, el polen (con la columna de la planta), los conteos y la citometría */
+(async () => {
+  await bloque(10, 'poly'); await W(2500);
+  const t = porId('b10TabCard');
+  irA(t); await W(900);
+  return caja([t], 6);
+})()
